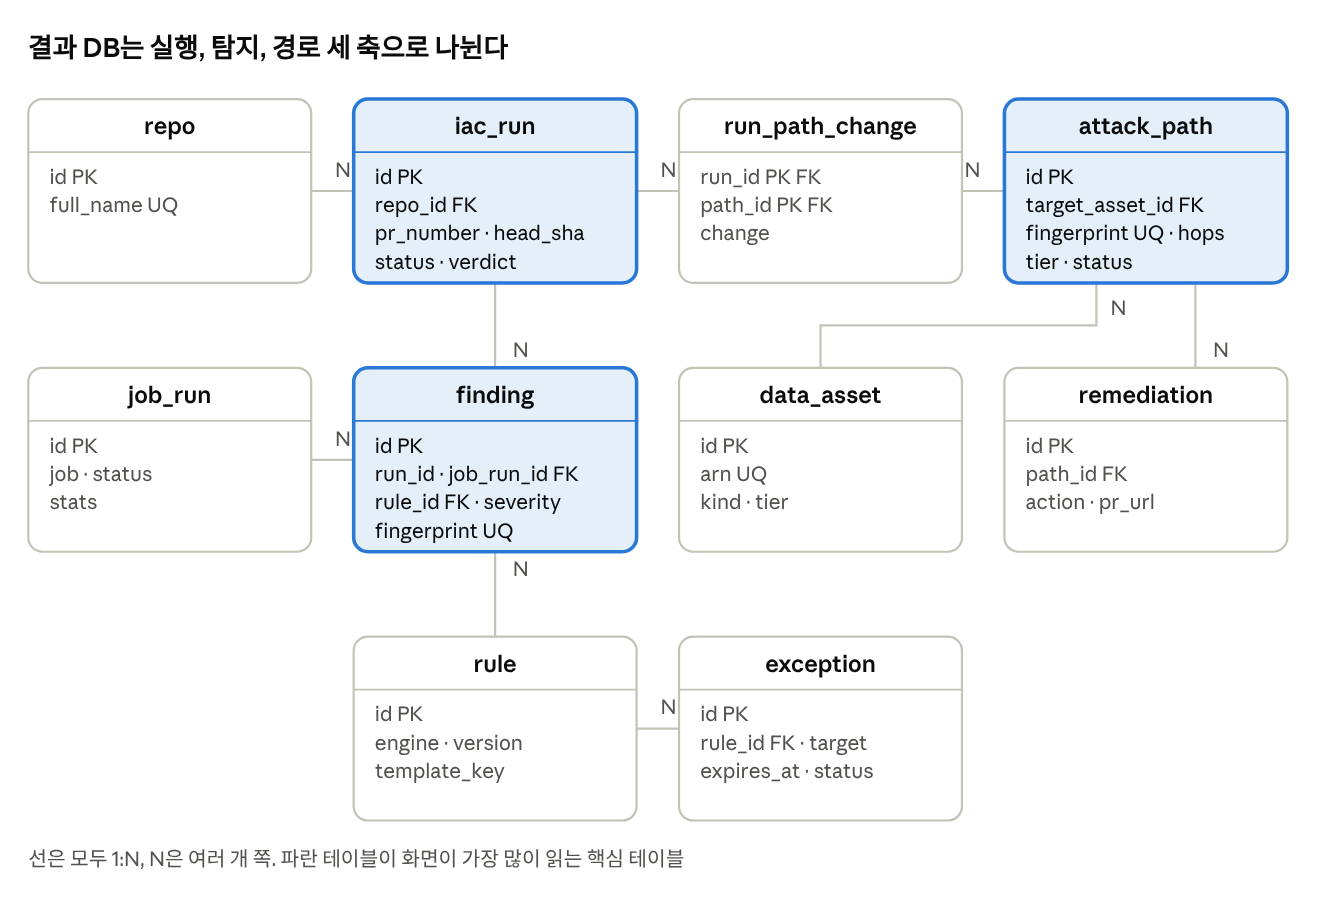
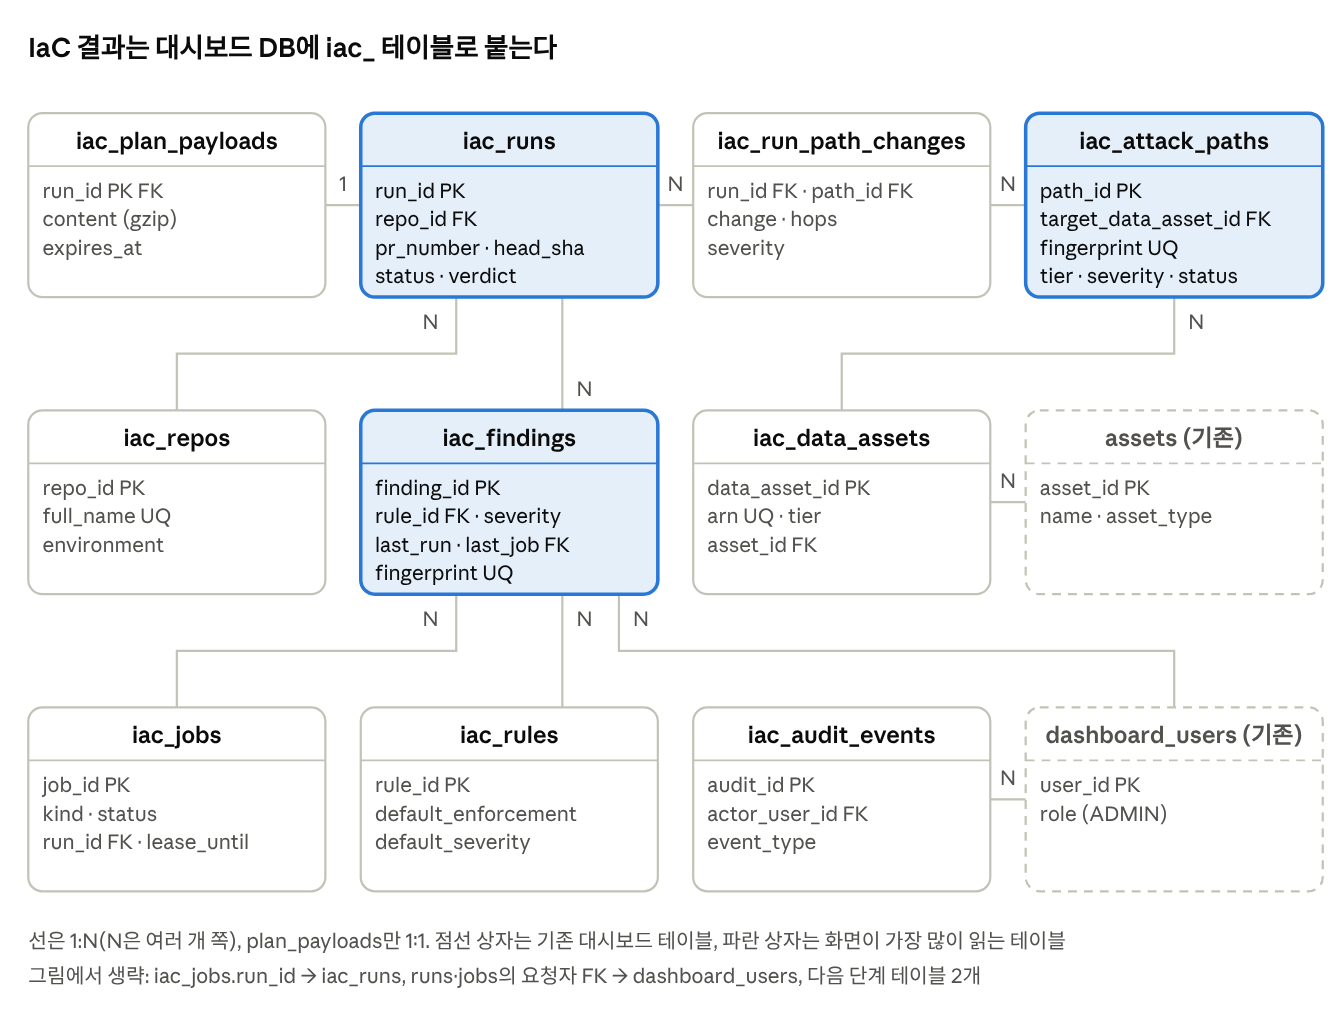
docs(iac): redesign database schema as iac_ tables in dashboard PostgreSQL

diff --git a/iac-security/03-architecture/database-schema.md b/iac-security/03-architecture/database-schema.md
@@ -1,51 +1,278 @@
 # ERD
 
-## ERD
+## 개요
 
-**결과 DB(`logssey_iac`, PostgreSQL)는 실행(iac_run, job_run), 탐지(finding), 경로(attack_path) 세 축으로 구성.**
+**IaC 결과는 대시보드 PostgreSQL에 `iac_` 테이블로 추가하고, 기존 `dashboard_users`·`assets`와 FK로 연결.** 자산 그래프는 별도 Neo4j에 두고, 여기에는 판정 결과와 이력만 저장.
 
-- 자산 그래프 자체는 Neo4j에 두고, 여기에는 판정 결과와 이력만 저장
+- 구현 위치: [dashboard-backend](https://github.com/Logssey/dashboard-backend)의 Flyway 후속 마이그레이션 `V{n}__create_iac_tables.sql`. 기존 `V1`은 수정하지 않음 (ADR-11)
+- 같은 방식을 쓰는 [Secret 스키마](../../secret-management/03-architecture/database-schema.md)와 규약을 맞춤
+    - 테이블 이름은 `iac_` 접두사
+    - PK는 `BIGINT GENERATED ALWAYS AS IDENTITY`, 시각은 `TIMESTAMPTZ`
+    - 값 목록은 대문자 `VARCHAR` + `CHECK` (기존 `detection_events`와 같음). API도 같은 값을 그대로 반환
+- 확인한 기존 스키마: `dashboard-backend`의 `V1__create_tables.sql` (`dashboard_users`, `assets`, `detection_events`)
 
-![결과 DB ERD: 테이블 10개](../assets/architecture/database-erd.png)
+![결과 DB ERD](../assets/architecture/database-erd.png)
 
-- 드리프트·② 위반·규칙 점검·State 결과는 모두 `finding` 한 테이블에 넣고 `source`로 구분
-- 경로는 PR마다 바뀌는 "차이"와 계속 열려 있는 "상태"가 다르므로 `attack_path`와 `run_path_change`로 분리
-- `remediation`·`exception`은 다음 단계(FR-D2·D3) 기능용 테이블. MVP에서는 만들지 않아도 됨
+## 기존 스키마와 경계
+
+| 기존 테이블 | IaC에서 쓰는 방식 |
+|---|---|
+| `dashboard_users` | 담당자, 수동 실행 요청자, 감사 행위자의 FK 대상. 현재 역할은 `ADMIN` 하나 |
+| `assets` | 데이터 등급표(`iac_data_assets`)가 기존 자산과 명확히 대응할 때만 선택적으로 연결 |
+| `detection_events` | 쓰지 않음. 통합 현황은 API가 `detection_events`, Secret, IaC 조회 결과를 합성 (Secret과 같은 방식) |
+
+## 테이블 구성
+
+| 축 | 테이블 | 역할 |
+|---|---|---|
+| 기준 | `iac_repos`, `iac_rules`, `iac_data_assets` | 검사 대상 레포, 규칙 등록부, 데이터 등급표 |
+| 실행 | `iac_runs`, `iac_jobs`, `iac_plan_payloads` | PR 검사 1회, 워커 작업 대기열, 분석 전 임시 plan JSON |
+| 결과 | `iac_findings`, `iac_attack_paths`, `iac_run_path_changes` | 탐지 결과, 현재 열린 경로, PR이 만든 경로 차이 |
+| 기록 | `iac_audit_events` | 변경·실행 감사 기록 (추가 전용) |
+| 다음 단계 | `iac_remediations`, `iac_exceptions` | 수정 PR(FR-D2), 예외(FR-D3). MVP에서는 만들지 않음 |
+
+**설계에서 고친 점** (이전 초안 대비)
+
+- 경로 차이: PR이 새로 만드는 경로는 아직 현재 그래프에 없음. 그래서 `iac_run_path_changes`가 경로 내용(`hops`, 등급, 심각도, 원인)을 직접 저장하고, `path_id`는 기존 경로를 없애거나 줄일 때만 채움
+- 작업 대기열: API가 받은 plan JSON을 Java 워커가 가져가도록 `iac_jobs`(PostgreSQL 대기열, `FOR UPDATE SKIP LOCKED`)를 둠. Secret의 `secret_jobs`와 같은 방식
+- plan JSON 보관: 분석 전까지 `iac_plan_payloads`에만 두고, 분석이 끝나거나 1시간이 지나면 행을 삭제 (SR-5)
+- 담당자·감사 행위자: 자유 텍스트 대신 `dashboard_users` FK
 
 ## 테이블 정의
 
-| 테이블 | 주요 컬럼 | 설명 |
-|---|---|---|
-| `repo` | `id` PK, `full_name` UQ, `default_branch` | 검사 대상 레포 (허용 목록) |
-| `iac_run` | `id` PK, `repo_id` FK, `pr_number`, `head_sha`, `trigger`(pr·push·manual), `status`, `verdict`(block·warn·info·pass), `highest_severity`, `graph_as_of`, `superseded_by` FK, `started_at`, `finished_at` | PR 검사 1회. `graph_as_of`는 판정에 쓴 그래프 시점. `status` 값은 API 명세의 실행 상태와 같음. push는 main 병합 후 ② 재검사(S-01 B의 main 기준 위반) |
-| `job_run` | `id` PK, `job`(cartography·enrich·drift·state), `status`, `started_at`, `finished_at`, `stats` jsonb | 매일 작업 1회 |
-| `rule` | `id` PK(예: `gate.exec_data_source`), `engine`(conftest·git·terraform·hash·kics·path·state·drift), `default_enforcement`, `default_severity`, `template_key`, `version`, `enabled` | 판정 규칙과 문구 템플릿 (규칙 명세와 1:1) |
-| `finding` | `id` PK, `run_id` FK null, `job_run_id` FK null, `rule_id` FK, `source`(gate·rule·path·state·drift), `enforcement`, `severity`, `resource_address`, `params` jsonb, `fingerprint` UQ, `status`(open·fixed·accepted), `assignee`, `first_seen`, `last_seen` | 모든 탐지 결과. `params`에는 속성 이름·개수만, 값 없음. `run_id`·`job_run_id` 중 하나는 반드시 있음(CHECK) |
-| `data_asset` | `id` PK, `arn` UQ, `kind`(rds·secret·s3·tfstate), `tier`(1·2·3), `owner` | 데이터 등급표 |
-| `attack_path` | `id` PK, `fingerprint` UQ(진입+단계+대상의 해시), `entry`, `target_asset_id` FK, `tier`, `severity`, `hops` jsonb, `length`, `status`(open·closed), `first_seen`, `last_seen` | 경로의 현재 상태. S-01 C 영역 |
-| `run_path_change` | `run_id` PK FK, `path_id` PK FK, `change`(added·removed·shortened) | PR이 만든 경로 차이. S-02 ① |
-| `remediation` | `id` PK, `action`, `path_id` FK null, `finding_id` FK null, `pr_number`, `pr_url`, `status`, `created_by`, `created_at` | 수정 PR 생성 이력. 다음 단계(FR-D2) |
-| `exception` | `id` PK, `rule_id` FK, `target`, `reason`, `requested_by`, `approved_by`, `status`, `expires_at` | 예외. 만료되면 판정에서 다시 빠짐. 다음 단계(FR-D3) |
-| `audit_log` | `id` PK, `actor`, `action`, `target`, `at` | 예외 승인·재검사·수정 PR 기록 (SR-10). 그림에서는 생략 |
+### 기준
 
-**강도·심각도 컬럼**
+| 테이블 | 컬럼 | 제약과 의미 |
+|---|---|---|
+| `iac_repos` | `repo_id BIGINT PK`, `full_name VARCHAR(200) NOT NULL UQ`, `default_branch VARCHAR(100) NOT NULL`, `environment VARCHAR(10) NOT NULL`, `enabled BOOLEAN NOT NULL`, `created_at TIMESTAMPTZ NOT NULL` | 검사 대상 레포 허용 목록. `environment`는 `PROD`, `DEV`. CI OIDC의 `repository` 클레임을 여기서 대조 |
+| `iac_rules` | `rule_id VARCHAR(80) PK`, `engine VARCHAR(20) NOT NULL`, `default_enforcement VARCHAR(10) NOT NULL`, `default_severity VARCHAR(10)`, `template_key VARCHAR(80) NOT NULL`, `version VARCHAR(40) NOT NULL`, `enabled BOOLEAN NOT NULL`, `updated_at TIMESTAMPTZ NOT NULL` | 규칙 등록부. 원본은 레포의 `policy/`이고 배포 때 이 표로 동기화. `rule_id`는 `gate.exec_data_source` 같은 식별자. `engine`은 `CONFTEST`, `GIT`, `TERRAFORM`, `HASH`, `KICS`, `PATH`, `STATE`, `DRIFT` |
+| `iac_data_assets` | `data_asset_id BIGINT PK`, `arn VARCHAR(300) NOT NULL UQ`, `kind VARCHAR(20) NOT NULL`, `tier SMALLINT NOT NULL`, `asset_id BIGINT FK`, `owner_team VARCHAR(50)`, `updated_at TIMESTAMPTZ NOT NULL` | 데이터 등급표. `kind`는 `RDS`, `SECRET`, `S3`, `TFSTATE`. `CHECK(tier BETWEEN 1 AND 3)`. `asset_id`는 기존 `assets`와 대응할 때만 |
+
+### 실행
+
+| 테이블 | 컬럼 | 제약과 의미 |
+|---|---|---|
+| `iac_runs` | `run_id BIGINT PK`, `repo_id BIGINT NOT NULL FK`, `pr_number INTEGER`, `head_sha VARCHAR(40) NOT NULL`, `trigger_type VARCHAR(10) NOT NULL`, `status VARCHAR(20) NOT NULL`, `verdict VARCHAR(10)`, `highest_severity VARCHAR(10)`, `graph_as_of TIMESTAMPTZ`, `superseded_by_run_id BIGINT FK`, `requested_by_user_id BIGINT FK`, `created_at TIMESTAMPTZ NOT NULL`, `finished_at TIMESTAMPTZ` | PR 검사 1회. `trigger_type`은 `PR`, `PUSH`(main 병합 후 ② 재검사), `MANUAL`(대시보드 재검사). `status`는 API 명세의 실행 상태와 같음. `verdict`는 `BLOCK`, `WARN`, `INFO`, `PASS`. `CHECK(trigger_type <> 'PR' OR pr_number IS NOT NULL)` |
+| `iac_jobs` | `job_id BIGINT PK`, `kind VARCHAR(20) NOT NULL`, `trigger_type VARCHAR(10) NOT NULL`, `run_id BIGINT FK`, `requested_by_user_id BIGINT FK`, `status VARCHAR(20) NOT NULL`, `attempt_no INTEGER NOT NULL`, `max_attempts INTEGER NOT NULL`, `available_at TIMESTAMPTZ NOT NULL`, `lease_owner VARCHAR(120)`, `lease_until TIMESTAMPTZ`, `stats JSONB`, `last_error_code VARCHAR(80)`, `created_at TIMESTAMPTZ NOT NULL`, `finished_at TIMESTAMPTZ` | 워커 작업과 매일 작업 기록. `kind`는 `ANALYZE_RUN`, `COLLECT_GRAPH`, `ENRICH_GRAPH`, `CHECK_DRIFT`, `CHECK_STATE`. `ANALYZE_RUN`이면 `run_id` 필수. `status`는 `PENDING`, `LEASED`, `SUCCEEDED`, `FAILED`, `CANCELLED`. `trigger_type`은 `SCHEDULED`, `MANUAL`, `PR` |
+| `iac_plan_payloads` | `run_id BIGINT PK FK`, `content BYTEA NOT NULL`, `size_bytes INTEGER NOT NULL`, `received_at TIMESTAMPTZ NOT NULL`, `expires_at TIMESTAMPTZ NOT NULL` | 민감값을 지운 plan JSON(gzip). `CHECK(size_bytes <= 20971520)`. 분석이 끝나거나 `expires_at`이 지나면 행 삭제 |
+
+### 결과
+
+| 테이블 | 컬럼 | 제약과 의미 |
+|---|---|---|
+| `iac_findings` | `finding_id BIGINT PK`, `rule_id VARCHAR(80) NOT NULL FK`, `source VARCHAR(10) NOT NULL`, `enforcement VARCHAR(10) NOT NULL`, `severity VARCHAR(10)`, `environment VARCHAR(10) NOT NULL`, `resource_address VARCHAR(500)`, `params JSONB NOT NULL`, `fingerprint VARCHAR(64) NOT NULL UQ`, `last_run_id BIGINT FK`, `last_job_id BIGINT FK`, `status VARCHAR(10) NOT NULL`, `assignee_user_id BIGINT FK`, `version BIGINT NOT NULL`, `first_seen_at`, `last_seen_at TIMESTAMPTZ NOT NULL` | 모든 탐지 결과. `source`는 `GATE`, `RULE`, `PATH`, `STATE`, `DRIFT`. `status`는 `OPEN`, `FIXED`, `ACCEPTED`. `CHECK(last_run_id IS NOT NULL OR last_job_id IS NOT NULL)`. `params`에는 속성 이름·개수만, 값 없음. `version`은 담당 지정 등 변경 시 낙관적 잠금 |
+| `iac_attack_paths` | `path_id BIGINT PK`, `fingerprint VARCHAR(64) NOT NULL UQ`, `entry VARCHAR(200) NOT NULL`, `target_data_asset_id BIGINT NOT NULL FK`, `tier SMALLINT NOT NULL`, `severity VARCHAR(10) NOT NULL`, `environment VARCHAR(10) NOT NULL`, `hops JSONB NOT NULL`, `length SMALLINT NOT NULL`, `status VARCHAR(10) NOT NULL`, `last_job_id BIGINT FK`, `first_seen_at`, `last_seen_at TIMESTAMPTZ NOT NULL` | 현재 그래프에서 열린 경로. S-01 C. `status`는 `OPEN`, `CLOSED`. `fingerprint`는 진입+단계+대상의 해시 |
+| `iac_run_path_changes` | `change_id BIGINT PK`, `run_id BIGINT NOT NULL FK`, `change VARCHAR(10) NOT NULL`, `path_id BIGINT FK`, `path_fingerprint VARCHAR(64) NOT NULL`, `tier SMALLINT NOT NULL`, `severity VARCHAR(10)`, `hops JSONB NOT NULL`, `cause_address VARCHAR(500)`, `evidence JSONB` | PR이 만든 경로 차이. S-02 ①. `change`는 `ADDED`, `REMOVED`, `SHORTENED`. `UQ(run_id, path_fingerprint)`. `ADDED`면 `path_id`는 NULL. `evidence`에는 IAM 시뮬레이터 판정(`explicitDeny`, `allowed` 등)만 |
+
+### 기록
+
+| 테이블 | 컬럼 | 제약과 의미 |
+|---|---|---|
+| `iac_audit_events` | `audit_id BIGINT PK`, `actor_kind VARCHAR(10) NOT NULL`, `actor_user_id BIGINT FK`, `entity_type VARCHAR(30) NOT NULL`, `entity_id BIGINT NOT NULL`, `event_type VARCHAR(50) NOT NULL`, `before_safe JSONB`, `after_safe JSONB`, `occurred_at TIMESTAMPTZ NOT NULL` | 재검사·지금 점검·담당 지정 등 변경 기록 (SR-10). `actor_kind`는 `USER`, `CI`, `WORKER`, `SYSTEM`. 일반 API 계정에는 UPDATE·DELETE 권한을 주지 않음 |
+
+### 다음 단계 (MVP 제외)
+
+| 테이블 | 컬럼 | 제약과 의미 |
+|---|---|---|
+| `iac_remediations` | `remediation_id BIGINT PK`, `action VARCHAR(30) NOT NULL`, `path_id BIGINT FK`, `finding_id BIGINT FK`, `pr_number INTEGER`, `pr_url VARCHAR(300)`, `status VARCHAR(20) NOT NULL`, `created_by_user_id BIGINT NOT NULL FK`, `created_at TIMESTAMPTZ NOT NULL` | 수정 PR 생성 이력 (FR-D2). `action`은 API 명세의 값 목록 |
+| `iac_exceptions` | `exception_id BIGINT PK`, `rule_id VARCHAR(80) NOT NULL FK`, `target VARCHAR(500) NOT NULL`, `reason TEXT NOT NULL`, `requested_by_user_id BIGINT NOT NULL FK`, `approved_by_user_id BIGINT FK`, `status VARCHAR(10) NOT NULL`, `expires_at TIMESTAMPTZ NOT NULL`, `created_at TIMESTAMPTZ NOT NULL` | 예외 (FR-D3). 만료되면 다시 판정에 포함. 승인 권한 분리는 역할 확장과 함께 |
+
+### 강도·심각도 컬럼
 
 | 컬럼 | 값 | 기준 |
 |---|---|---|
-| `rule.default_enforcement`, `finding.enforcement` | block·warn·info·ignore | 규칙 명세의 강도 |
-| `rule.default_severity`, `finding.severity`, `attack_path.severity`, `iac_run.highest_severity` | critical·high·medium·low, 없음은 null | 규칙 명세의 심각도. null은 위험 집계에서 제외 |
+| `iac_rules.default_enforcement`, `iac_findings.enforcement` | `BLOCK`, `WARN`, `INFO`, `IGNORE` | 규칙 명세의 강도 |
+| `iac_rules.default_severity`, `iac_findings.severity`, `iac_attack_paths.severity`, `iac_run_path_changes.severity`, `iac_runs.highest_severity` | `CRITICAL`, `HIGH`, `MEDIUM`, `LOW`, 없음은 NULL | 규칙 명세의 심각도. NULL은 위험 집계에서 제외 |
 
-- 값 목록은 DB에 소문자로 저장하고, API는 대문자로 반환 (대시보드 API 공통 규약)
+## 통합 현황 집계 기준
+
+- 집계 대상: 운영 기준 결과만
+    - `iac_attack_paths`에서 `status = 'OPEN'`인 경로
+    - `iac_findings`에서 `status = 'OPEN'`이고 `severity IS NOT NULL`이며 `last_job_id`가 있는 것 (매일 작업·main 기준 결과)
+- 열린 PR의 결과는 아직 병합 전이라 통합 현황 건수에 넣지 않음. IaC 탭의 PR 영역에서만 표시
+- `environment`는 대시보드 공통 쿼리 `environment` 필터에 그대로 씀
+
+## 중복 방지와 수명
+
 - `fingerprint`는 같은 문제가 매일·PR마다 새 행으로 쌓이지 않게 하는 키
-    - 같은 지문이면 `last_seen`만 갱신
-    - 더 이상 안 보이면 `fixed`·`closed`로 변경
+    - PR 결과: `rule_id` + `resource_address` + 레포 + PR 번호의 해시
+    - 매일 작업 결과: `rule_id` + `resource_address` + 레포 + `MAIN`의 해시
+- 같은 지문이면 `last_seen_at`과 `last_run_id`·`last_job_id`만 갱신
+- 다음 실행에서 안 보이면 `FIXED`(탐지)·`CLOSED`(경로)로 변경
+- PR이 병합·종료되면 그 PR의 열린 결과를 `FIXED`로 닫음
+
+## DB 계정과 접근 경계
+
+| 계정 | 권한 |
+|---|---|
+| API (dashboard-backend) | IaC 테이블 조회, `iac_runs`·`iac_jobs`·`iac_plan_payloads` 쓰기, `iac_findings`의 담당·상태 변경, `iac_audit_events` 추가 |
+| 워커 (Java) | `iac_jobs` 선점·완료, `iac_plan_payloads` 읽기·삭제, 결과 테이블 적재, `iac_audit_events` 추가 |
+
+- 두 계정 모두 `iac_audit_events`의 UPDATE·DELETE 권한 없음
+- 저장 위치(운영 DB 서버)는 ADR-D005를 따름. 이 문서는 테이블과 접근 경계만 정함
+
+## DDL 초안
+
+구현 때 `V{n}__create_iac_tables.sql`로 옮김. 번호는 Secret 마이그레이션과의 순서를 보고 정함. 다음 단계 테이블 두 개는 넣지 않음.
+
+```sql
+-- IaC 보안 테이블 (설계: security-solution-docs/iac-security/03-architecture/database-schema.md)
+
+CREATE TABLE iac_repos (
+    repo_id         BIGINT GENERATED ALWAYS AS IDENTITY PRIMARY KEY,
+    full_name       VARCHAR(200) NOT NULL UNIQUE,
+    default_branch  VARCHAR(100) NOT NULL,
+    environment     VARCHAR(10)  NOT NULL CHECK (environment IN ('PROD', 'DEV')),
+    enabled         BOOLEAN      NOT NULL DEFAULT TRUE,
+    created_at      TIMESTAMPTZ  NOT NULL DEFAULT now()
+);
+
+CREATE TABLE iac_rules (
+    rule_id              VARCHAR(80) PRIMARY KEY,
+    engine               VARCHAR(20) NOT NULL CHECK (engine IN ('CONFTEST', 'GIT', 'TERRAFORM', 'HASH', 'KICS', 'PATH', 'STATE', 'DRIFT')),
+    default_enforcement  VARCHAR(10) NOT NULL CHECK (default_enforcement IN ('BLOCK', 'WARN', 'INFO', 'IGNORE')),
+    default_severity     VARCHAR(10) CHECK (default_severity IN ('CRITICAL', 'HIGH', 'MEDIUM', 'LOW')),
+    template_key         VARCHAR(80) NOT NULL,
+    version              VARCHAR(40) NOT NULL,
+    enabled              BOOLEAN     NOT NULL DEFAULT TRUE,
+    updated_at           TIMESTAMPTZ NOT NULL DEFAULT now()
+);
+
+CREATE TABLE iac_data_assets (
+    data_asset_id  BIGINT GENERATED ALWAYS AS IDENTITY PRIMARY KEY,
+    arn            VARCHAR(300) NOT NULL UNIQUE,
+    kind           VARCHAR(20)  NOT NULL CHECK (kind IN ('RDS', 'SECRET', 'S3', 'TFSTATE')),
+    tier           SMALLINT     NOT NULL CHECK (tier BETWEEN 1 AND 3),
+    asset_id       BIGINT REFERENCES assets (asset_id) ON DELETE SET NULL,
+    owner_team     VARCHAR(50),
+    updated_at     TIMESTAMPTZ  NOT NULL DEFAULT now()
+);
+
+CREATE TABLE iac_runs (
+    run_id                BIGINT GENERATED ALWAYS AS IDENTITY PRIMARY KEY,
+    repo_id               BIGINT      NOT NULL REFERENCES iac_repos (repo_id),
+    pr_number             INTEGER,
+    head_sha              VARCHAR(40) NOT NULL,
+    trigger_type          VARCHAR(10) NOT NULL CHECK (trigger_type IN ('PR', 'PUSH', 'MANUAL')),
+    status                VARCHAR(20) NOT NULL CHECK (status IN ('QUEUED', 'GATE_FAILED', 'PLANNING', 'ANALYZING', 'DONE', 'ERROR', 'SUPERSEDED')),
+    verdict               VARCHAR(10) CHECK (verdict IN ('BLOCK', 'WARN', 'INFO', 'PASS')),
+    highest_severity      VARCHAR(10) CHECK (highest_severity IN ('CRITICAL', 'HIGH', 'MEDIUM', 'LOW')),
+    graph_as_of           TIMESTAMPTZ,
+    superseded_by_run_id  BIGINT REFERENCES iac_runs (run_id),
+    requested_by_user_id  BIGINT REFERENCES dashboard_users (user_id),
+    created_at            TIMESTAMPTZ NOT NULL DEFAULT now(),
+    finished_at           TIMESTAMPTZ,
+    CHECK (trigger_type <> 'PR' OR pr_number IS NOT NULL)
+);
+
+CREATE INDEX idx_iac_runs_repo_pr ON iac_runs (repo_id, pr_number, created_at DESC);
+
+CREATE TABLE iac_jobs (
+    job_id                BIGINT GENERATED ALWAYS AS IDENTITY PRIMARY KEY,
+    kind                  VARCHAR(20) NOT NULL CHECK (kind IN ('ANALYZE_RUN', 'COLLECT_GRAPH', 'ENRICH_GRAPH', 'CHECK_DRIFT', 'CHECK_STATE')),
+    trigger_type          VARCHAR(10) NOT NULL CHECK (trigger_type IN ('SCHEDULED', 'MANUAL', 'PR')),
+    run_id                BIGINT REFERENCES iac_runs (run_id),
+    requested_by_user_id  BIGINT REFERENCES dashboard_users (user_id),
+    status                VARCHAR(20) NOT NULL DEFAULT 'PENDING' CHECK (status IN ('PENDING', 'LEASED', 'SUCCEEDED', 'FAILED', 'CANCELLED')),
+    attempt_no            INTEGER     NOT NULL DEFAULT 0,
+    max_attempts          INTEGER     NOT NULL DEFAULT 3,
+    available_at          TIMESTAMPTZ NOT NULL DEFAULT now(),
+    lease_owner           VARCHAR(120),
+    lease_until           TIMESTAMPTZ,
+    stats                 JSONB,
+    last_error_code       VARCHAR(80),
+    created_at            TIMESTAMPTZ NOT NULL DEFAULT now(),
+    finished_at           TIMESTAMPTZ,
+    CHECK (kind <> 'ANALYZE_RUN' OR run_id IS NOT NULL),
+    CHECK (attempt_no >= 0 AND max_attempts > 0)
+);
+
+CREATE INDEX idx_iac_jobs_pending ON iac_jobs (available_at) WHERE status = 'PENDING';
+
+CREATE TABLE iac_plan_payloads (
+    run_id       BIGINT      PRIMARY KEY REFERENCES iac_runs (run_id) ON DELETE CASCADE,
+    content      BYTEA       NOT NULL,
+    size_bytes   INTEGER     NOT NULL CHECK (size_bytes <= 20971520),
+    received_at  TIMESTAMPTZ NOT NULL DEFAULT now(),
+    expires_at   TIMESTAMPTZ NOT NULL
+);
+
+CREATE TABLE iac_findings (
+    finding_id        BIGINT GENERATED ALWAYS AS IDENTITY PRIMARY KEY,
+    rule_id           VARCHAR(80)  NOT NULL REFERENCES iac_rules (rule_id),
+    source            VARCHAR(10)  NOT NULL CHECK (source IN ('GATE', 'RULE', 'PATH', 'STATE', 'DRIFT')),
+    enforcement       VARCHAR(10)  NOT NULL CHECK (enforcement IN ('BLOCK', 'WARN', 'INFO', 'IGNORE')),
+    severity          VARCHAR(10)  CHECK (severity IN ('CRITICAL', 'HIGH', 'MEDIUM', 'LOW')),
+    environment       VARCHAR(10)  NOT NULL CHECK (environment IN ('PROD', 'DEV')),
+    resource_address  VARCHAR(500),
+    params            JSONB        NOT NULL DEFAULT '{}',
+    fingerprint       VARCHAR(64)  NOT NULL UNIQUE,
+    last_run_id       BIGINT REFERENCES iac_runs (run_id),
+    last_job_id       BIGINT REFERENCES iac_jobs (job_id),
+    status            VARCHAR(10)  NOT NULL DEFAULT 'OPEN' CHECK (status IN ('OPEN', 'FIXED', 'ACCEPTED')),
+    assignee_user_id  BIGINT REFERENCES dashboard_users (user_id),
+    version           BIGINT       NOT NULL DEFAULT 0,
+    first_seen_at     TIMESTAMPTZ  NOT NULL,
+    last_seen_at      TIMESTAMPTZ  NOT NULL,
+    CHECK (last_run_id IS NOT NULL OR last_job_id IS NOT NULL)
+);
+
+CREATE INDEX idx_iac_findings_open ON iac_findings (status, severity);
+
+CREATE TABLE iac_attack_paths (
+    path_id               BIGINT GENERATED ALWAYS AS IDENTITY PRIMARY KEY,
+    fingerprint           VARCHAR(64)  NOT NULL UNIQUE,
+    entry                 VARCHAR(200) NOT NULL,
+    target_data_asset_id  BIGINT       NOT NULL REFERENCES iac_data_assets (data_asset_id),
+    tier                  SMALLINT     NOT NULL CHECK (tier BETWEEN 1 AND 3),
+    severity              VARCHAR(10)  NOT NULL CHECK (severity IN ('CRITICAL', 'HIGH', 'MEDIUM', 'LOW')),
+    environment           VARCHAR(10)  NOT NULL CHECK (environment IN ('PROD', 'DEV')),
+    hops                  JSONB        NOT NULL,
+    length                SMALLINT     NOT NULL,
+    status                VARCHAR(10)  NOT NULL DEFAULT 'OPEN' CHECK (status IN ('OPEN', 'CLOSED')),
+    last_job_id           BIGINT REFERENCES iac_jobs (job_id),
+    first_seen_at         TIMESTAMPTZ  NOT NULL,
+    last_seen_at          TIMESTAMPTZ  NOT NULL
+);
+
+CREATE TABLE iac_run_path_changes (
+    change_id         BIGINT GENERATED ALWAYS AS IDENTITY PRIMARY KEY,
+    run_id            BIGINT      NOT NULL REFERENCES iac_runs (run_id) ON DELETE CASCADE,
+    change            VARCHAR(10) NOT NULL CHECK (change IN ('ADDED', 'REMOVED', 'SHORTENED')),
+    path_id           BIGINT REFERENCES iac_attack_paths (path_id),
+    path_fingerprint  VARCHAR(64) NOT NULL,
+    tier              SMALLINT    NOT NULL CHECK (tier BETWEEN 1 AND 3),
+    severity          VARCHAR(10) CHECK (severity IN ('CRITICAL', 'HIGH', 'MEDIUM', 'LOW')),
+    hops              JSONB       NOT NULL,
+    cause_address     VARCHAR(500),
+    evidence          JSONB,
+    UNIQUE (run_id, path_fingerprint),
+    CHECK (change <> 'ADDED' OR path_id IS NULL)
+);
+
+CREATE TABLE iac_audit_events (
+    audit_id       BIGINT GENERATED ALWAYS AS IDENTITY PRIMARY KEY,
+    actor_kind     VARCHAR(10) NOT NULL CHECK (actor_kind IN ('USER', 'CI', 'WORKER', 'SYSTEM')),
+    actor_user_id  BIGINT REFERENCES dashboard_users (user_id),
+    entity_type    VARCHAR(30) NOT NULL,
+    entity_id      BIGINT      NOT NULL,
+    event_type     VARCHAR(50) NOT NULL,
+    before_safe    JSONB,
+    after_safe     JSONB,
+    occurred_at    TIMESTAMPTZ NOT NULL DEFAULT now(),
+    CHECK (actor_kind <> 'USER' OR actor_user_id IS NOT NULL)
+);
+```
+
+- 구현 검증: 빈 DB와 기존 `V1` 위 적용, 잘못된 FK·값 거부, 같은 지문 중복 거부, 큐 동시 선점 시 한 워커만 작업을 가져가는지, plan JSON 행이 분석 후 남지 않는지 확인
 
 ## 그래프 스키마 (Neo4j)
 
-**노드·관계는 대부분 Cartography 것을 그대로 사용하고, 경로 계산에 빠진 관계 4개와 가상 노드 1개만 보강.**
+**노드·관계는 대부분 Cartography 것을 그대로 사용하고, 경로 계산에 빠진 관계 4개와 가상 노드 1개만 보강.** Neo4j는 PostgreSQL과 따로 두는 그래프 저장소 (ADR-10).
 
 - 보강 관계에는 `_source = 'logssey'`와 `lastupdated`를 붙여 Cartography 관계와 구분하고, 다음 실행에서 확인 안 된 것은 삭제
 - 라벨은 공식 스키마 기준(AWS 접두). 10/7 수집에서는 `EC2Instance`·`S3Bucket` 같은 이전 라벨도 함께 붙어 있었음
+- 데이터 노드의 등급(`tier`)은 `iac_data_assets`를 기준으로 매일 보강 단계에서 그래프에 붙임
 
 | 구분 | 이름 | 출처 |
 |---|---|---|
@@ -56,8 +283,8 @@
 | 관계 | `CAN_READ`·`CAN_WRITE`(주체→S3·시크릿, 거부 반영) | Cartography 권한 매핑 + 사용자 정의 매핑 파일 |
 | 관계 | `ORIGIN`(CloudFront→NLB), `HAS_CREDS_OF`(EC2→역할, IMDS 조건), `CAN_REACH {port}`(네트워크 도달), `IS_INSTANCE` 대체(`providerID`가 비면 내부 IP 매칭) | logssey 보강 |
 
-- 경로 쿼리는 `Internet`에서 출발해 `tier`가 붙은 데이터 노드까지 최대 6단계 탐색, 결과는 `attack_path`에 저장
-- PR 분석은 이 그래프의 복사본(또는 메모리 안 부분 그래프)에 plan 변경을 얹어 계산하고 원본은 수정 안 함
+- 경로 쿼리는 `Internet`에서 출발해 `tier`가 붙은 데이터 노드까지 최대 6단계 탐색, 결과는 `iac_attack_paths`에 저장
+- PR 분석은 이 그래프의 복사본(또는 메모리 안 부분 그래프)에 plan 변경을 얹어 계산하고 원본은 수정 안 함. 결과는 `iac_run_path_changes`에 저장
 
 | 항목 | 내용 |
 |---|---|
